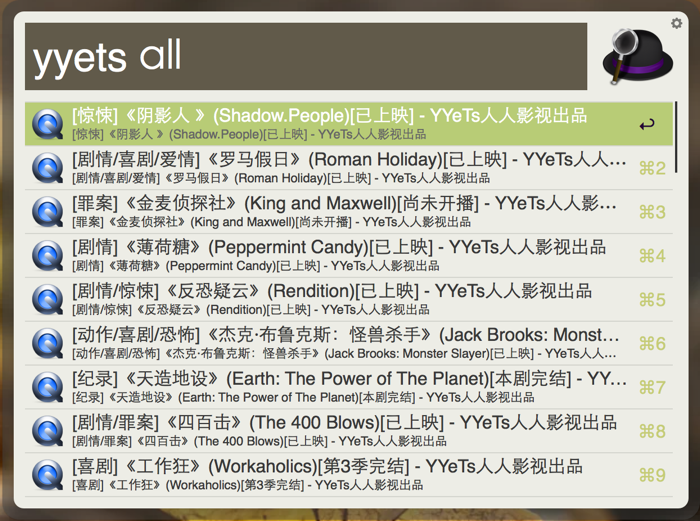
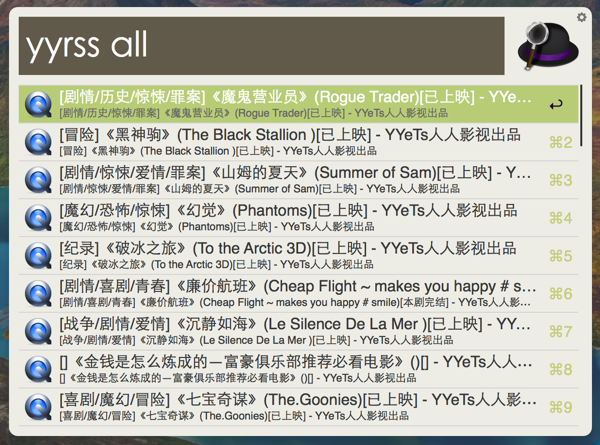
增加API查询功能，修复bug
增加了通过YYeTs提供的API查询方式，可以进行全站检索。
* 关键字yyapi用来进行全站影视剧和字幕信息检索，yyrss查询最新发布的影视剧。
* 通过option+space呼出Alfred，输入yyapi 生活大爆炸，可用检索YYeTs网站生活大爆炸剧集和字幕信息
* 通过option+space呼出Alfred，输入yyrss all，查看YYeTs网站最近发布的影视剧
* 输入yyrss 科幻，可以检索标题匹配“科幻”的影视剧，同样是网站最新发布的，不是所有历史数据。
* 用 上下方向键 或 command+数字 选中需要的文件，回车可以直接在默认浏览器打开。

同时修正了检索内容中有特殊字符导致无法在Alfred里显示的bug。

diff --git a/findyyets_api.py b/findyyets_api.py
@@ -1,0 +1,29 @@
+# -*- coding: utf-8 -*-
+
+__author__ = 'Sagacity'
+
+import urllib2
+import json
+
+theQuery = "{query}"
+
+theQuery = theQuery.strip()
+apiurl = 'http://www.yyets.com/php/search/api?keyword='
+urldoc = json.loads( urllib2.urlopen( apiurl + theQuery ).read())
+
+results = urldoc["data"]
+
+if not results:
+    exit()
+
+print "<?xml version=\"1.0\"?>\n<items>"
+for res in results:
+    link = "http://www.yyets.com/" + res["type"] + "/" + res["itemid"]
+    title = res["title"].replace( "&", "#" )
+    print "    <item uid=\"YYeTs\" arg=\""+ link +"\">"
+    print "        <title>" + title.encode('utf-8') + "</title>"
+    print "        <subtitle>" + (res["prefix"] + title).encode('utf-8') + "</subtitle>"
+    print '''        <icon type="fileicon">/Applications/QuickTime Player.app/</icon>
+    </item>'''
+
+print "</items>\n"

diff --git a/findyyets.py b/findyyets.py
@@ -2,18 +2,18 @@
 
 __author__ = 'Sagacity'
 
-import urllib
+import urllib2
 import xml.dom.minidom
 
 theQuery = u"{query}"
 # theQuery = u"all"
 theQuery = theQuery.strip()
 rssurl = 'http://www.yyets.com/rss/feed/'
-urldoc = xml.dom.minidom.parse( urllib.urlopen( rssurl ) )
+urldoc = xml.dom.minidom.parse( urllib2.urlopen( rssurl ) )
 
 print "<?xml version=\"1.0\"?>\n<items>"
 for item in urldoc.getElementsByTagName('item'):
-    title = item.getElementsByTagName('title')[0].firstChild.data
+    title = item.getElementsByTagName('title')[0].firstChild.data.replace( "&", "#" )
     link = item.getElementsByTagName('link')[0].firstChild.data
 
     if title.__contains__(theQuery) or theQuery == "all":

diff --git a/README.md b/README.md
@@ -2,13 +2,13 @@
 Alfred是OS X最常用的一款增强型工具软件，充分利用了OS X的系统特性，帮助用户通过快捷键完成各种常用操作，属于Mac必备软件。
 近期Alfred发布了V2，对原有特性进行了增强和完善，并推出了全新的workflow功能，提供了极为简洁的接口和各种Action，帮助用户定制自己的功能。
 
-FindYYeTs是为Alfred开发的一款workflow，主要功能是检索YYeTs（人人影视）上最新发布的影视作品，如果你是个美剧爱好者，你应该需要这个workflow。
+FindYYeTs是为Alfred开发的一款workflow，主要功能是通过YYeTs（人人影视）提供的API和RSS检索最新发布的影视作品，同时也可以进行全站搜索。如果你是个影视剧爱好者，你应该需要这个workflow。
 
 # Development
 Alfred 2的workflow提供了多种实现方式，比如shell、php、perl、python、ruby和applescript。
 FindYYeTs是基于Python2.7开发的。
 
-通过urllib和xml.dom.minidom解析YYeTs的RSS，检索完成后通过python组织成Alfred 2能识别的xml格式即可。
+通过urllib2、xml.dom.minidom、json等原生库解析YYeTs的RSS和API，检索完成后通过python组织成Alfred 2能识别的xml格式。
 
 # Requirements
 * Python2.7 （OS X 10.8默认的Python版本）
@@ -18,9 +18,12 @@ FindYYeTs是基于Python2.7开发的。
 下载FindYYeTs.alfredworkflow，双击导入Alfred 2即可。
 
 # How to use
-* 通过option+space呼出Alfred，输入yyets all，查看YYeTs网站最近发布的影视剧，如图所示：
+* 关键字yyapi用来进行全站影视剧和字幕信息检索，yyrss查询最新发布的影视剧。
+* 通过option+space呼出Alfred，输入yyapi 生活大爆炸，可用检索YYeTs网站生活大爆炸剧集和字幕信息
+* 通过option+space呼出Alfred，输入yyrss all，查看YYeTs网站最近发布的影视剧
+* 输入yyrss 科幻，可以检索标题匹配“科幻”的影视剧，同样是网站最新发布的，不是所有历史数据。
+* 用 上下方向键 或 command+数字 选中需要的文件，回车可以直接在默认浏览器打开。
 
 ![demo](demo.png)
 
-* 输入yyets 科幻，可以检索标题匹配“科幻”的影视剧，同样是网站最新发布的，不是所有历史数据。
-* 用 上下方向键 或 command+数字 选中需要的文件，回车可以直接在默认浏览器打开。
+![demo1](demo1.png)
